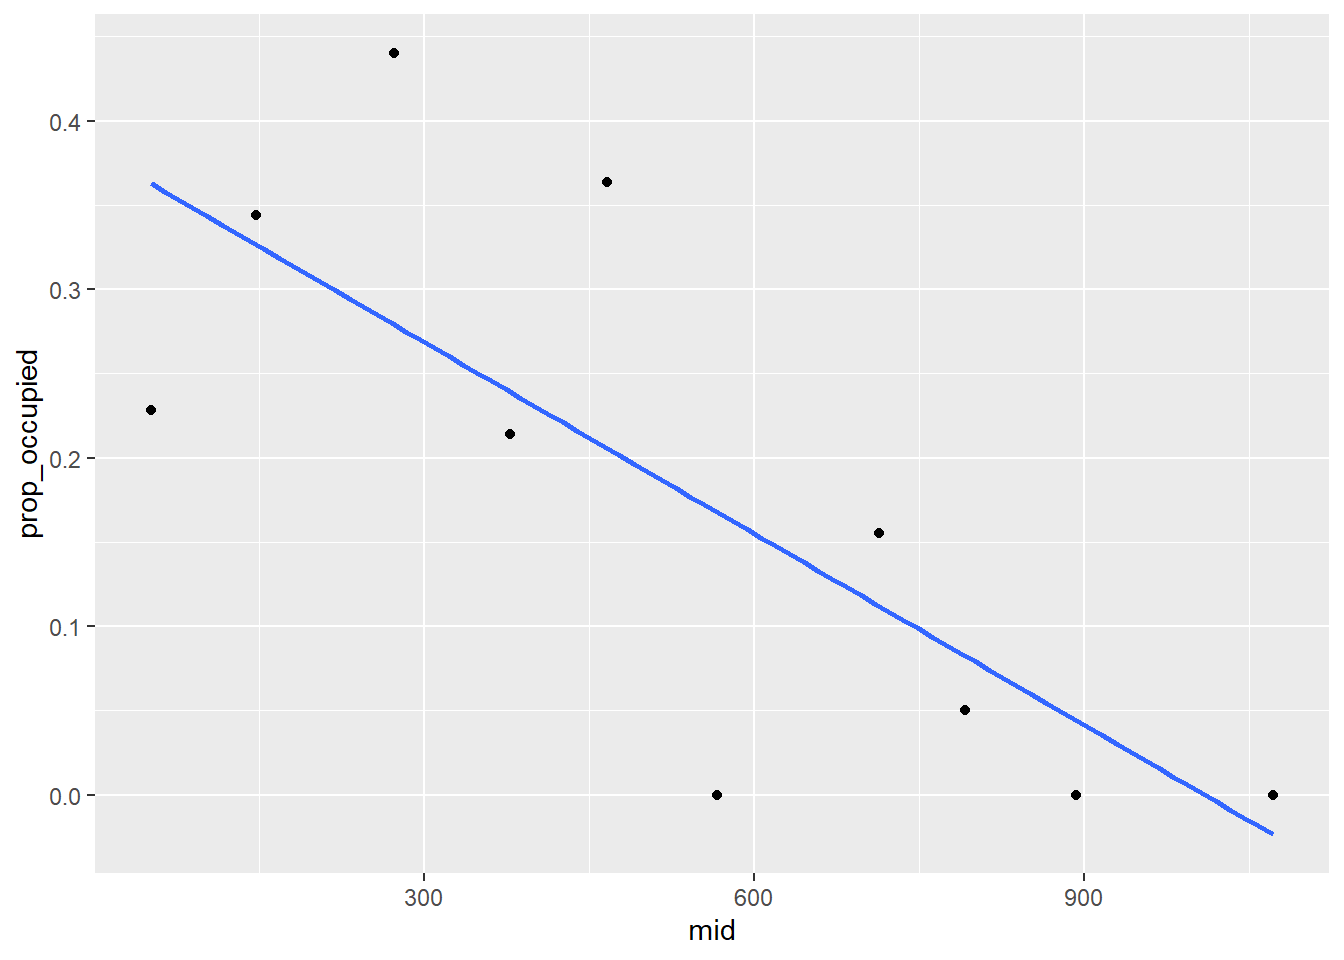
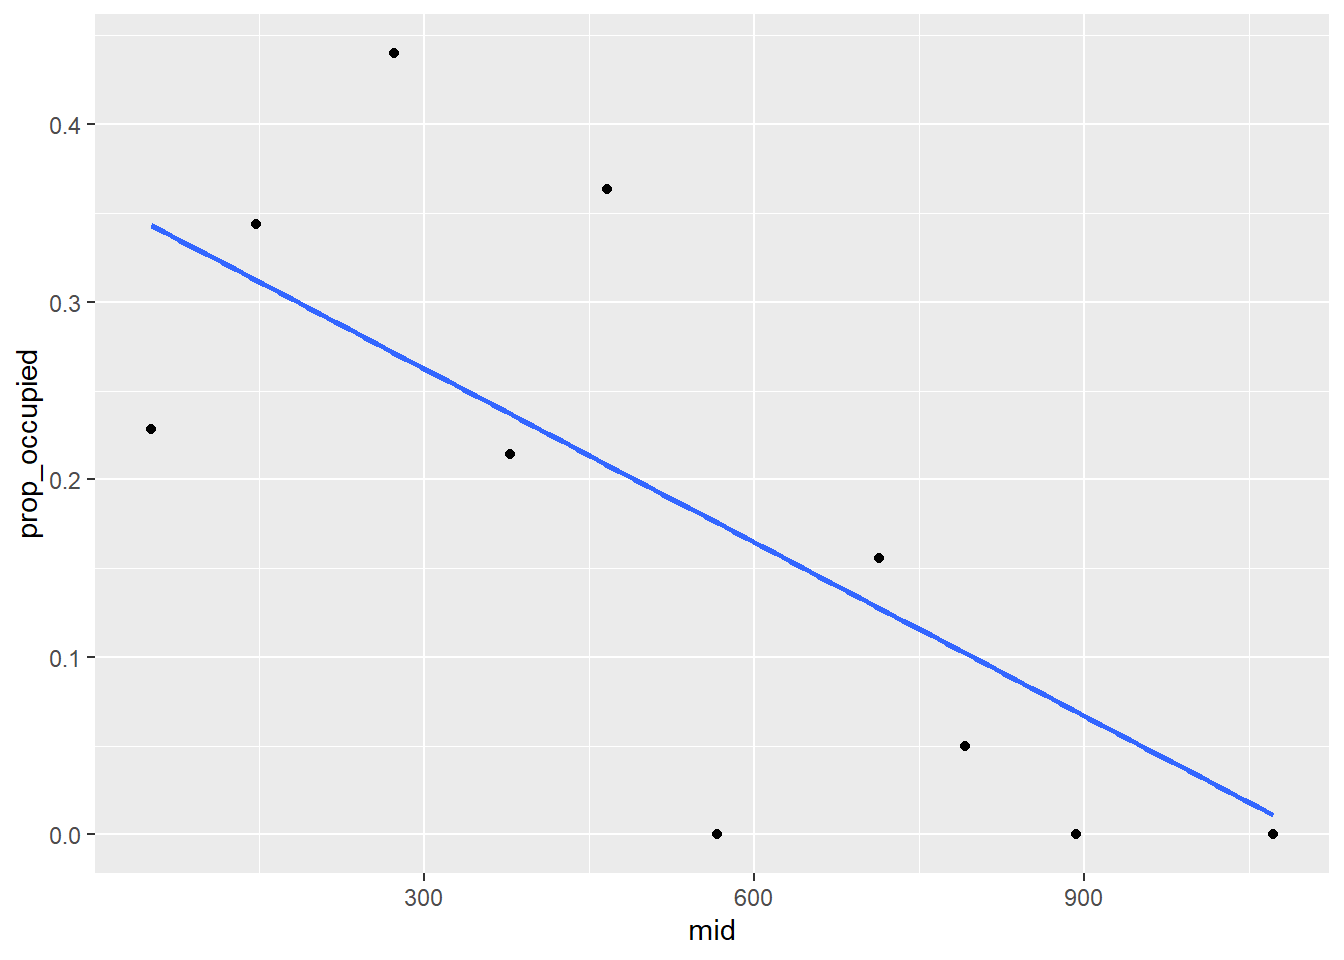
analyize gml models and visualize the best model (saturated) for problem 3h

diff --git a/code/Final-code.html b/code/Final-code.html
@@ -129,6 +129,9 @@ window.Quarto = {
   <li><a href="#d.-table-of-models" id="toc-d.-table-of-models" class="nav-link" data-scroll-target="#d.-table-of-models">d.&nbsp;Table of models</a></li>
   <li><a href="#e.-run-the-models" id="toc-e.-run-the-models" class="nav-link" data-scroll-target="#e.-run-the-models">e. Run the models</a></li>
   <li><a href="#f.-check-the-diagnostics" id="toc-f.-check-the-diagnostics" class="nav-link" data-scroll-target="#f.-check-the-diagnostics">f.&nbsp;Check the diagnostics</a></li>
+  <li><a href="#g.-select-the-best-model" id="toc-g.-select-the-best-model" class="nav-link" data-scroll-target="#g.-select-the-best-model">g. Select the best model</a></li>
+  <li><a href="#h.-visualize-the-model-predictions" id="toc-h.-visualize-the-model-predictions" class="nav-link" data-scroll-target="#h.-visualize-the-model-predictions">h. Visualize the model predictions</a></li>
+  <li><a href="#i.-write-a-caption-for-your-figure" id="toc-i.-write-a-caption-for-your-figure" class="nav-link" data-scroll-target="#i.-write-a-caption-for-your-figure">i. Write a caption for your figure</a></li>
   </ul></li>
   </ul>
 </nav>
@@ -174,12 +177,14 @@ window.Quarto = {
 <span id="cb1-2"><a href="#cb1-2" aria-hidden="true" tabindex="-1"></a><span class="fu">library</span>(tidyverse)</span>
 <span id="cb1-3"><a href="#cb1-3" aria-hidden="true" tabindex="-1"></a><span class="fu">library</span>(janitor)</span>
 <span id="cb1-4"><a href="#cb1-4" aria-hidden="true" tabindex="-1"></a><span class="fu">library</span>(here) <span class="co">#for file management</span></span>
-<span id="cb1-5"><a href="#cb1-5" aria-hidden="true" tabindex="-1"></a><span class="fu">library</span>(DHARMa) <span class="co">#for model diagnostics</span></span>
-<span id="cb1-6"><a href="#cb1-6" aria-hidden="true" tabindex="-1"></a></span>
-<span id="cb1-7"><a href="#cb1-7" aria-hidden="true" tabindex="-1"></a><span class="co">#read in data used for assignment</span></span>
-<span id="cb1-8"><a href="#cb1-8" aria-hidden="true" tabindex="-1"></a>sst <span class="ot">&lt;-</span> <span class="fu">read.csv</span>(<span class="fu">here</span>(<span class="st">"data"</span>, <span class="st">"SST_update2023.csv"</span>)) <span class="co">#using package 'here' to fix file path issue</span></span>
-<span id="cb1-9"><a href="#cb1-9" aria-hidden="true" tabindex="-1"></a></span>
-<span id="cb1-10"><a href="#cb1-10" aria-hidden="true" tabindex="-1"></a>nest_boxes <span class="ot">&lt;-</span>  <span class="fu">read.csv</span>(<span class="fu">here</span>(<span class="st">"data"</span>, <span class="st">"occdist.csv"</span>)) <span class="co">#using 'here' to fix file path render issue</span></span></code><button title="Copy to Clipboard" class="code-copy-button"><i class="bi"></i></button></pre></div>
+<span id="cb1-5"><a href="#cb1-5" aria-hidden="true" tabindex="-1"></a><span class="fu">library</span>(ggeffects)</span>
+<span id="cb1-6"><a href="#cb1-6" aria-hidden="true" tabindex="-1"></a><span class="fu">library</span>(DHARMa) <span class="co">#for model diagnostics</span></span>
+<span id="cb1-7"><a href="#cb1-7" aria-hidden="true" tabindex="-1"></a><span class="fu">library</span>(MuMIn) <span class="co">#for AICc best model</span></span>
+<span id="cb1-8"><a href="#cb1-8" aria-hidden="true" tabindex="-1"></a></span>
+<span id="cb1-9"><a href="#cb1-9" aria-hidden="true" tabindex="-1"></a><span class="co">#read in data used for assignment</span></span>
+<span id="cb1-10"><a href="#cb1-10" aria-hidden="true" tabindex="-1"></a>sst <span class="ot">&lt;-</span> <span class="fu">read.csv</span>(<span class="fu">here</span>(<span class="st">"data"</span>, <span class="st">"SST_update2023.csv"</span>)) <span class="co">#using package 'here' to fix file path issue</span></span>
+<span id="cb1-11"><a href="#cb1-11" aria-hidden="true" tabindex="-1"></a></span>
+<span id="cb1-12"><a href="#cb1-12" aria-hidden="true" tabindex="-1"></a>nest_boxes <span class="ot">&lt;-</span>  <span class="fu">read.csv</span>(<span class="fu">here</span>(<span class="st">"data"</span>, <span class="st">"occdist.csv"</span>)) <span class="co">#using 'here' to fix file path render issue</span></span></code><button title="Copy to Clipboard" class="code-copy-button"><i class="bi"></i></button></pre></div>
 </div>
 </section>
 <section id="problem-1.-research-writing" class="level1">
@@ -224,11 +229,11 @@ window.Quarto = {
 <pre><code># A tibble: 5 × 3
   year  month mean_monthly_sst
   &lt;fct&gt; &lt;ord&gt;            &lt;dbl&gt;
-1 2019  Nov               16.8
-2 2018  Jun               15.5
-3 2018  May               13.6
-4 2021  Jan               13.9
-5 2019  Jan               14.7</code></pre>
+1 2018  Feb               14.3
+2 2019  Apr               13.7
+3 2023  Jul               16.3
+4 2018  Jun               15.5
+5 2019  Feb               14.1</code></pre>
 </div>
 <div class="sourceCode cell-code" id="cb4"><pre class="sourceCode r code-with-copy"><code class="sourceCode r"><span id="cb4-1"><a href="#cb4-1" aria-hidden="true" tabindex="-1"></a><span class="fu">str</span>(sst_clean) <span class="co">#display sst_clean data structure</span></span></code><button title="Copy to Clipboard" class="code-copy-button"><i class="bi"></i></button></pre></div>
 <div class="cell-output cell-output-stdout">
@@ -357,9 +362,9 @@ window.Quarto = {
 <section id="f.-check-the-diagnostics" class="level2">
 <h2 class="anchored" data-anchor-id="f.-check-the-diagnostics">f.&nbsp;Check the diagnostics</h2>
 <div class="cell">
-<div class="sourceCode cell-code" id="cb8"><pre class="sourceCode r code-with-copy"><code class="sourceCode r"><span id="cb8-1"><a href="#cb8-1" aria-hidden="true" tabindex="-1"></a><span class="co"># Simulate residuals</span></span>
-<span id="cb8-2"><a href="#cb8-2" aria-hidden="true" tabindex="-1"></a>res1 <span class="ot">&lt;-</span> <span class="fu">simulateResiduals</span>(mod1)</span>
-<span id="cb8-3"><a href="#cb8-3" aria-hidden="true" tabindex="-1"></a>res2 <span class="ot">&lt;-</span> <span class="fu">simulateResiduals</span>(mod2)</span>
+<div class="sourceCode cell-code" id="cb8"><pre class="sourceCode r code-with-copy"><code class="sourceCode r"><span id="cb8-1"><a href="#cb8-1" aria-hidden="true" tabindex="-1"></a><span class="co"># Simulate residuals for each model</span></span>
+<span id="cb8-2"><a href="#cb8-2" aria-hidden="true" tabindex="-1"></a>res1 <span class="ot">&lt;-</span> <span class="fu">simulateResiduals</span>(mod1) <span class="co">#null</span></span>
+<span id="cb8-3"><a href="#cb8-3" aria-hidden="true" tabindex="-1"></a>res2 <span class="ot">&lt;-</span> <span class="fu">simulateResiduals</span>(mod2) <span class="co">#saturated </span></span>
 <span id="cb8-4"><a href="#cb8-4" aria-hidden="true" tabindex="-1"></a>res3 <span class="ot">&lt;-</span> <span class="fu">simulateResiduals</span>(mod3)</span>
 <span id="cb8-5"><a href="#cb8-5" aria-hidden="true" tabindex="-1"></a>res4 <span class="ot">&lt;-</span> <span class="fu">simulateResiduals</span>(mod4)</span>
 <span id="cb8-6"><a href="#cb8-6" aria-hidden="true" tabindex="-1"></a></span>
@@ -400,6 +405,65 @@ window.Quarto = {
 </div>
 </div>
 </div>
+</section>
+<section id="g.-select-the-best-model" class="level2">
+<h2 class="anchored" data-anchor-id="g.-select-the-best-model">g. Select the best model</h2>
+<div class="cell">
+<div class="sourceCode cell-code" id="cb12"><pre class="sourceCode r code-with-copy"><code class="sourceCode r"><span id="cb12-1"><a href="#cb12-1" aria-hidden="true" tabindex="-1"></a><span class="fu">AICc</span>(mod1,</span>
+<span id="cb12-2"><a href="#cb12-2" aria-hidden="true" tabindex="-1"></a>     mod2,</span>
+<span id="cb12-3"><a href="#cb12-3" aria-hidden="true" tabindex="-1"></a>     mod3,</span>
+<span id="cb12-4"><a href="#cb12-4" aria-hidden="true" tabindex="-1"></a>     mod4) <span class="sc">|&gt;</span> </span>
+<span id="cb12-5"><a href="#cb12-5" aria-hidden="true" tabindex="-1"></a>  <span class="fu">arrange</span>(AICc) <span class="co"># arranging output in descending order of AIC</span></span></code><button title="Copy to Clipboard" class="code-copy-button"><i class="bi"></i></button></pre></div>
+<div class="cell-output cell-output-stdout">
+<pre><code>     df     AICc
+mod2  3 226.3133
+mod4  2 229.6716
+mod3  2 236.3744
+mod1  1 238.8318</code></pre>
+</div>
+</div>
+<p>Akaike’s Information Criterion defined model 2 as the best model. This model says that Swift Parrot presence in the nest boxes is best predicted by considering the season and the distance to forest edge.</p>
+</section>
+<section id="h.-visualize-the-model-predictions" class="level2">
+<h2 class="anchored" data-anchor-id="h.-visualize-the-model-predictions">h. Visualize the model predictions</h2>
+<div class="cell">
+<div class="sourceCode cell-code" id="cb14"><pre class="sourceCode r code-with-copy"><code class="sourceCode r"><span id="cb14-1"><a href="#cb14-1" aria-hidden="true" tabindex="-1"></a>model_prediction <span class="ot">&lt;-</span> <span class="fu">ggpredict</span>(mod2,</span>
+<span id="cb14-2"><a href="#cb14-2" aria-hidden="true" tabindex="-1"></a>                              <span class="at">terms =</span> <span class="fu">c</span>(<span class="st">"edge_distance [all]"</span>, <span class="st">"season"</span>)) </span>
+<span id="cb14-3"><a href="#cb14-3" aria-hidden="true" tabindex="-1"></a></span>
+<span id="cb14-4"><a href="#cb14-4" aria-hidden="true" tabindex="-1"></a>model_df <span class="ot">&lt;-</span> <span class="fu">as.data.frame</span>(model_prediction) <span class="co">#make the object into a data frame to use in ggplot properly</span></span>
+<span id="cb14-5"><a href="#cb14-5" aria-hidden="true" tabindex="-1"></a></span>
+<span id="cb14-6"><a href="#cb14-6" aria-hidden="true" tabindex="-1"></a><span class="fu">ggplot</span>(<span class="at">data =</span> model_df,</span>
+<span id="cb14-7"><a href="#cb14-7" aria-hidden="true" tabindex="-1"></a>       <span class="fu">aes</span>( <span class="at">x =</span> x,</span>
+<span id="cb14-8"><a href="#cb14-8" aria-hidden="true" tabindex="-1"></a>            <span class="at">y =</span> predicted,</span>
+<span id="cb14-9"><a href="#cb14-9" aria-hidden="true" tabindex="-1"></a>            <span class="at">color =</span> group,</span>
+<span id="cb14-10"><a href="#cb14-10" aria-hidden="true" tabindex="-1"></a>            <span class="at">fill =</span> group)) <span class="sc">+</span> <span class="co">#probability occupied by a swift parrot</span></span>
+<span id="cb14-11"><a href="#cb14-11" aria-hidden="true" tabindex="-1"></a>  <span class="fu">geom_point</span>(<span class="at">color =</span> <span class="st">"darkgrey"</span>) <span class="sc">+</span></span>
+<span id="cb14-12"><a href="#cb14-12" aria-hidden="true" tabindex="-1"></a>  <span class="fu">geom_ribbon</span>(</span>
+<span id="cb14-13"><a href="#cb14-13" aria-hidden="true" tabindex="-1"></a>              <span class="fu">aes</span>(<span class="at">ymin =</span> conf.low,</span>
+<span id="cb14-14"><a href="#cb14-14" aria-hidden="true" tabindex="-1"></a>                  <span class="at">ymax =</span> conf.high),</span>
+<span id="cb14-15"><a href="#cb14-15" aria-hidden="true" tabindex="-1"></a>              <span class="at">alpha =</span> .<span class="dv">25</span>,</span>
+<span id="cb14-16"><a href="#cb14-16" aria-hidden="true" tabindex="-1"></a>              <span class="at">color =</span> <span class="cn">NA</span>) <span class="sc">+</span></span>
+<span id="cb14-17"><a href="#cb14-17" aria-hidden="true" tabindex="-1"></a>  <span class="fu">geom_line</span>(<span class="at">color =</span> <span class="st">"darkgrey"</span>) <span class="sc">+</span></span>
+<span id="cb14-18"><a href="#cb14-18" aria-hidden="true" tabindex="-1"></a>  <span class="fu">theme_bw</span>() <span class="sc">+</span></span>
+<span id="cb14-19"><a href="#cb14-19" aria-hidden="true" tabindex="-1"></a>  <span class="fu">theme</span>(</span>
+<span id="cb14-20"><a href="#cb14-20" aria-hidden="true" tabindex="-1"></a>        <span class="at">panel.grid.major =</span> <span class="fu">element_blank</span>(),   <span class="co"># remove major gridlines</span></span>
+<span id="cb14-21"><a href="#cb14-21" aria-hidden="true" tabindex="-1"></a>        <span class="at">panel.grid.minor =</span> <span class="fu">element_blank</span>(), <span class="co">#remove minor gridlines</span></span>
+<span id="cb14-22"><a href="#cb14-22" aria-hidden="true" tabindex="-1"></a>        <span class="at">legend.position =</span> <span class="st">"none"</span>) <span class="sc">+</span></span>
+<span id="cb14-23"><a href="#cb14-23" aria-hidden="true" tabindex="-1"></a>  <span class="fu">labs</span>(<span class="at">x =</span> <span class="st">"Distance to forest edge (m)"</span>,</span>
+<span id="cb14-24"><a href="#cb14-24" aria-hidden="true" tabindex="-1"></a>       <span class="at">y =</span> <span class="st">"Probability of box occupancy (%)"</span>) <span class="sc">+</span></span>
+<span id="cb14-25"><a href="#cb14-25" aria-hidden="true" tabindex="-1"></a>  <span class="fu">scale_fill_manual</span>(<span class="at">values =</span> <span class="fu">c</span>(<span class="st">"2016"</span> <span class="ot">=</span> <span class="st">"#9544BF"</span>,</span>
+<span id="cb14-26"><a href="#cb14-26" aria-hidden="true" tabindex="-1"></a>                                <span class="st">"2019"</span> <span class="ot">=</span> <span class="st">"#4465BF"</span>))</span></code><button title="Copy to Clipboard" class="code-copy-button"><i class="bi"></i></button></pre></div>
+<div class="cell-output-display">
+<div>
+<figure class="figure">
+<p><img src="Final-code_files/figure-html/unnamed-chunk-7-1.png" class="img-fluid figure-img" width="672"></p>
+</figure>
+</div>
+</div>
+</div>
+</section>
+<section id="i.-write-a-caption-for-your-figure" class="level2">
+<h2 class="anchored" data-anchor-id="i.-write-a-caption-for-your-figure">i. Write a caption for your figure</h2>
 </section>
 </section>
 
